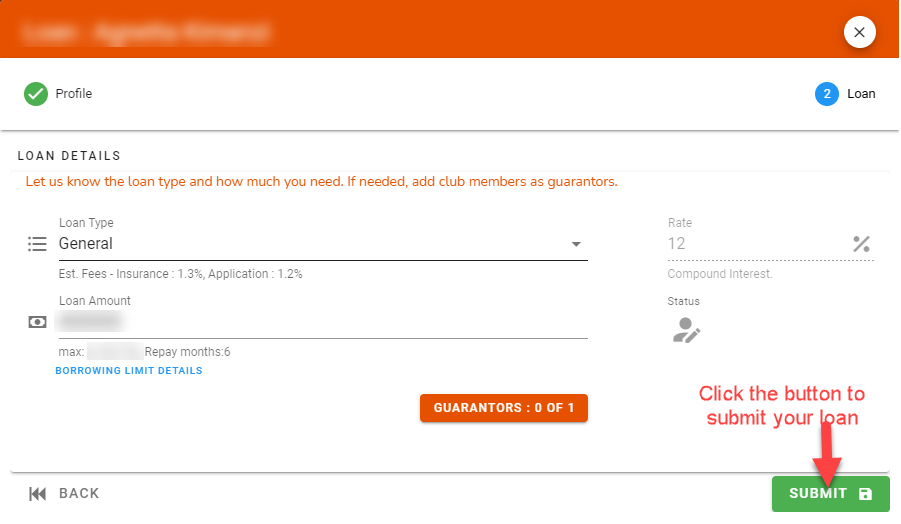
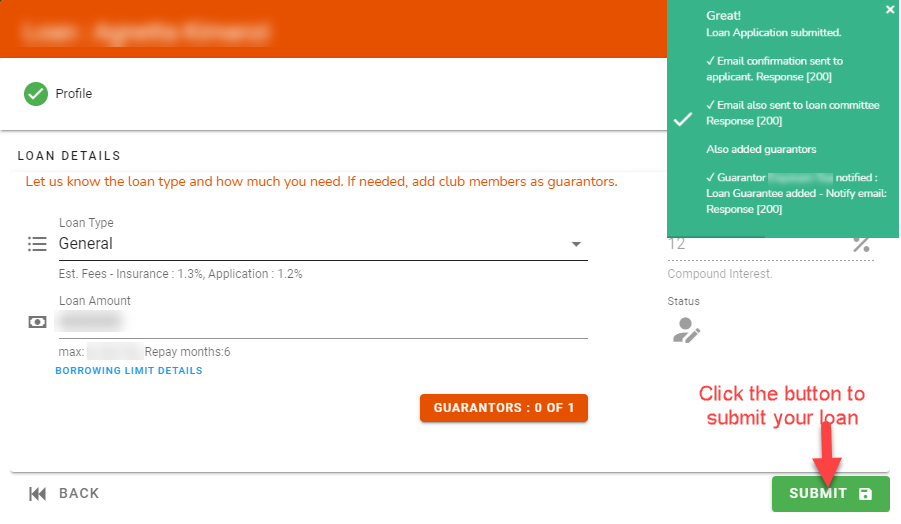
Updated loan processes

Changed region(s): [[0.7148, 0.0, 1.0, 0.458]]

diff --git a/user-modules/loans.md b/user-modules/loans.md
@@ -67,4 +67,12 @@ You will receive a notification that your loan has been submitted.
 ## Loan Guarantee
 If you guaranteed any loans they will appear under `Guarantees` tab.
 
-![alt text](../images/4.5_Loan_Gurantee_Page.png "Loan Guarantee tab")
+![alt text](../images/4.5_Loan_Gurantee_Page.png ":size=x200 Loan Guarantee tab")
+
+Click on the loan guarantee request to open up the dialog. Use the dialog to reveiw the details of the guarantee request. after confirming the guarantee amount, your loan borrowing limit accept or decline the request.
+
+![alt text](../images/4.5.1_Loan_Gurantee_Dialog.png ":size=x300 Loan Guarantee dialog")
+
+Once you approve or decline a notification will be sent to the loan applicant.
+
+![alt text](../images/4.5.2_Loan_Gurantee_Notify.png ":size=x300 Loan Guarantee notification")
